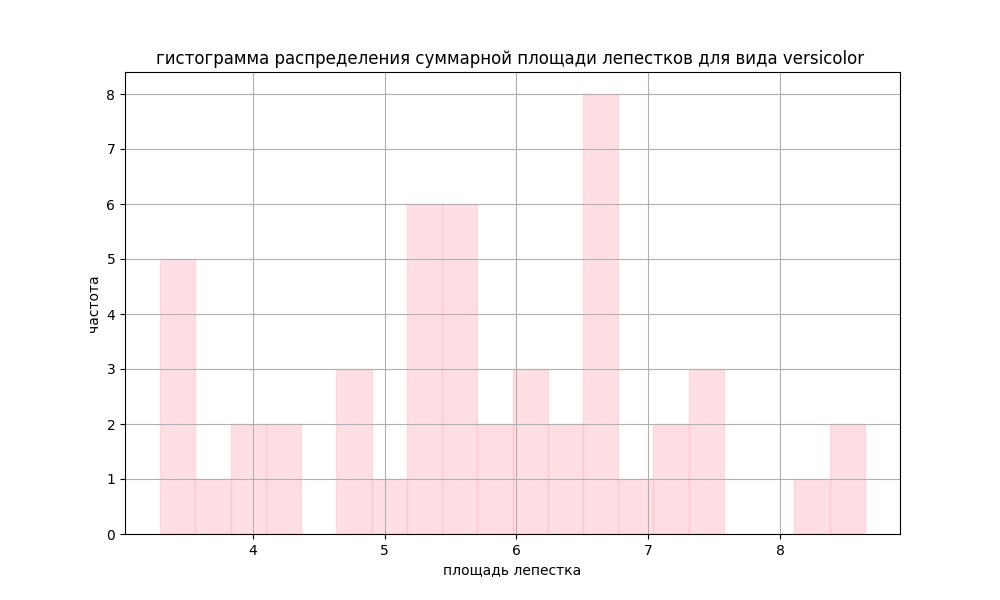
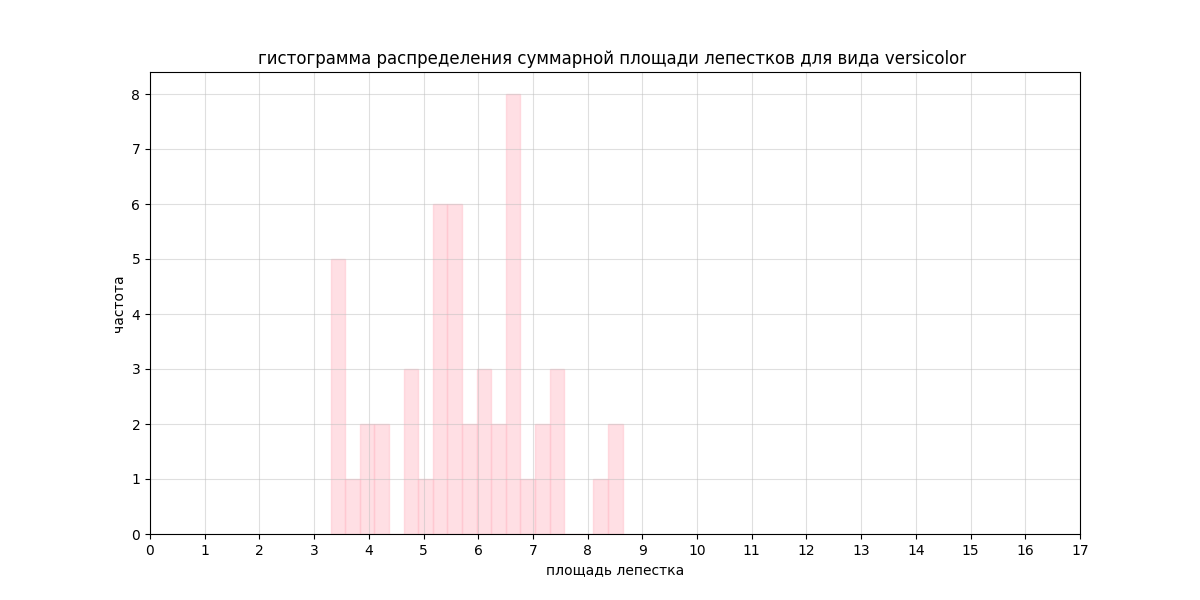
стабилизировала масштаб оси х а то не наглядно было

diff --git a/main.py b/main.py
@@ -104,19 +104,24 @@ def empirical_cdf(data, title):
 
 
 def draw_histogram(iris_areas, sepal=True, specie=''):
-    plt.figure(figsize=(10, 6))
+    plt.figure(figsize=(12, 6))
 
     gist_color ='tomato' if sepal else 'pink'
     gist_title = "гистограмма распределения суммарной площади "
-    gist_type = "чашелистиков" if sepal else  'лепестков'
+    gist_type = "чашелистиков" if sepal else 'лепестков'
     plt.hist(iris_areas, bins=20, color=gist_color, alpha=0.5, edgecolor=gist_color)
-    plt.title(f"{gist_title + gist_type} для вида {specie} " if specie else f"{gist_title} для всей выборки")
+    plt.title(f"{gist_title + gist_type} для вида {specie} " if specie else f"{gist_title+gist_type} для всей выборки")
     plt.xlabel('площадь чашелистика' if sepal else 'площадь лепестка')
     plt.ylabel('частота')
-    plt.grid("both")
+    if (sepal):
+        plt.xticks(range(10, 32, 2))
+    else:
+        plt.xticks(range(0, 18, 1 ))
+    plt.grid("both", color="silver", alpha=0.5)
     filename = "sepal_squares" if sepal else "petal_squares"
     scope = "_whole" if not specie else f"_{specie}"
     plt.savefig(filename + scope + '.png')
+    plt.legend()
     plt.close()
 
 
